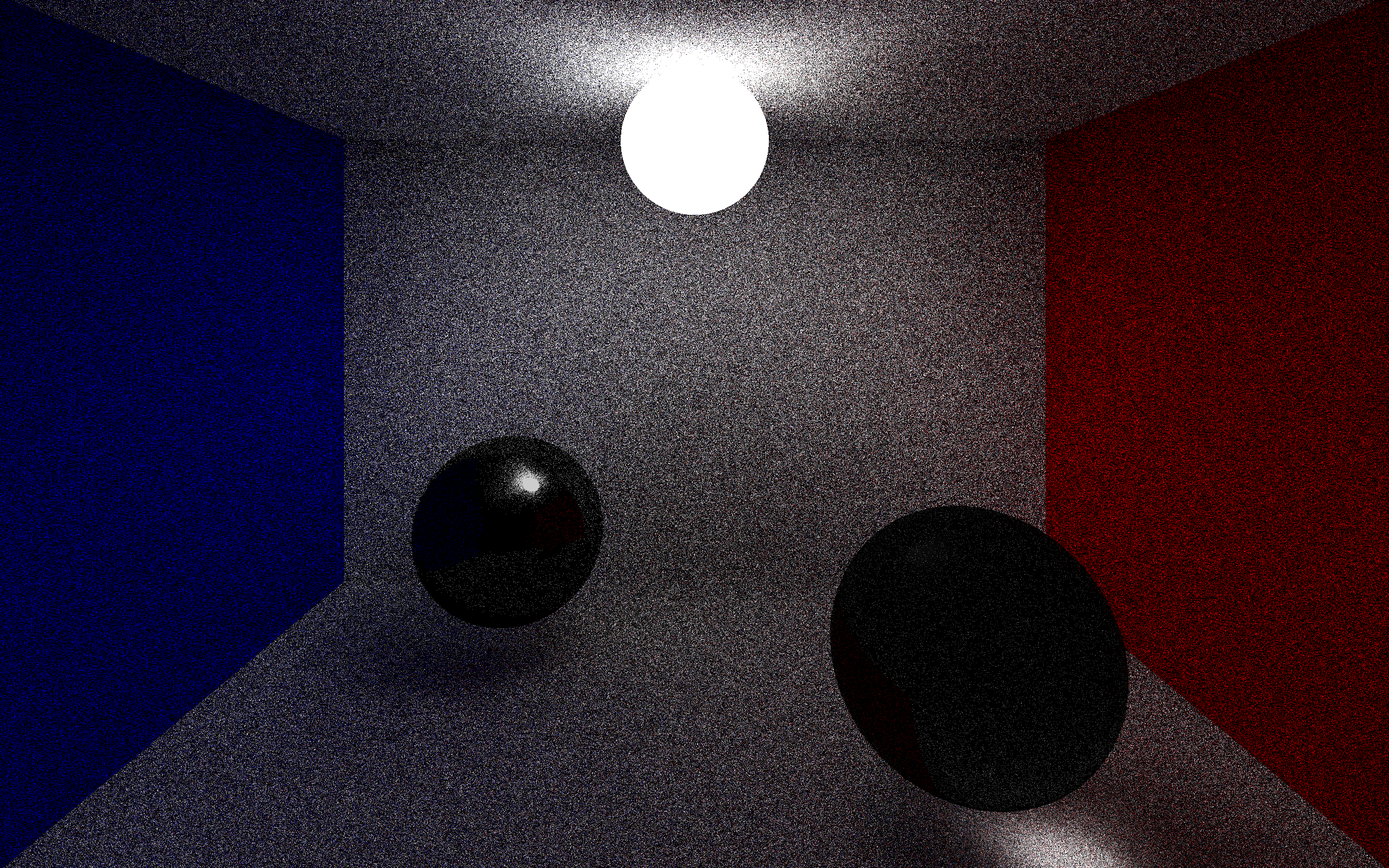
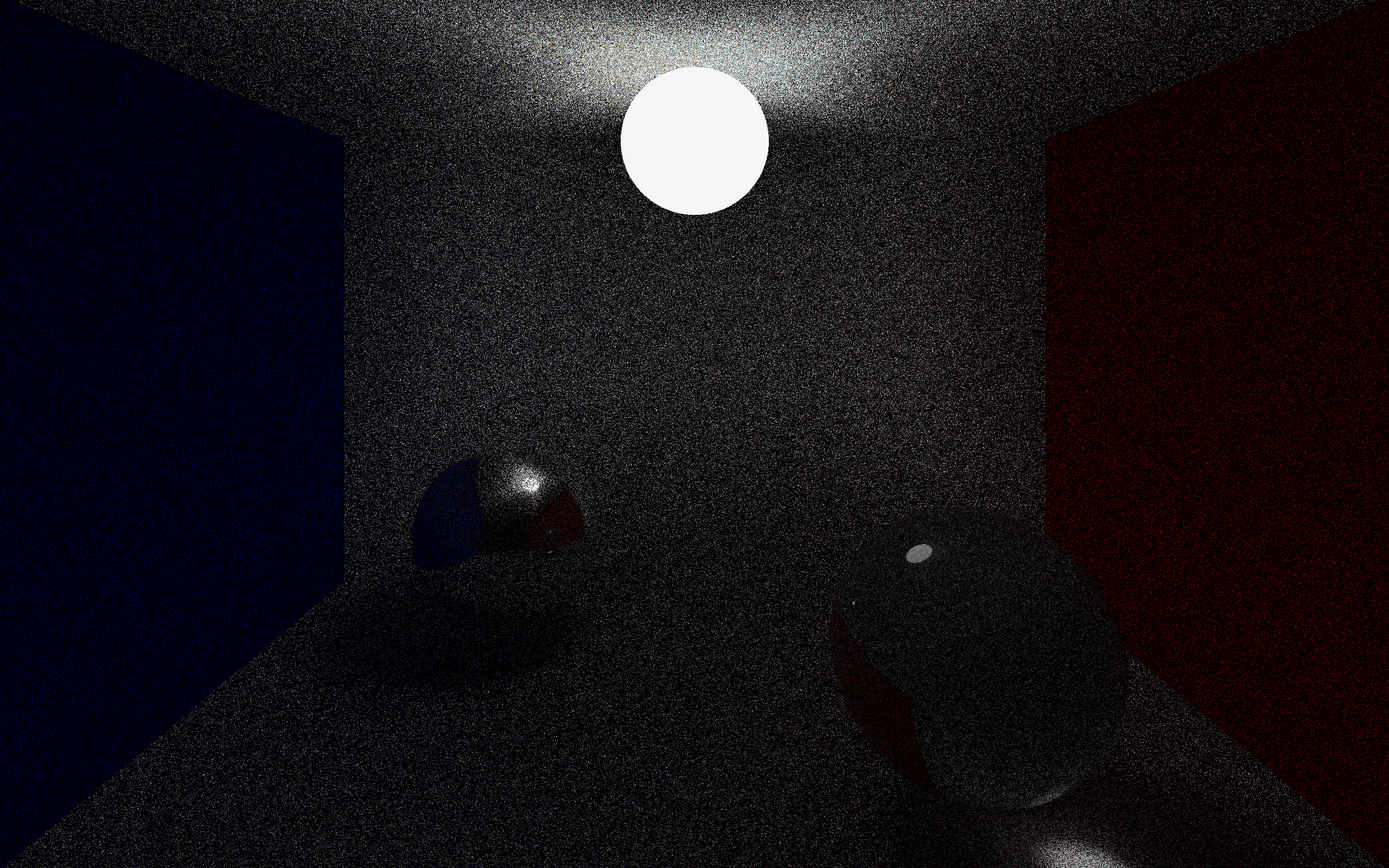
Improved algorithm speed

diff --git a/Scene.cpp b/Scene.cpp
@@ -159,7 +159,7 @@ Point Scene::traceRay(const Ray& ray, const double IoR, int recDepth) const {
 
 #else
     localColor = Point();
-
+/*
     if(intersection->getMaterial().getMaterialType() == DIFFUSE) {
         for (int i = 0; i < RAY_SAMPLES; ++i) {
                     double x = ((double) rand() / (RAND_MAX))-0.5;
@@ -173,18 +173,24 @@ Point Scene::traceRay(const Ray& ray, const double IoR, int recDepth) const {
                     }
                     if (dot > 0.2) {
                         Ray randRay = Ray(intersectionPoint, randDir);
-                        int minDepth; 
-                        if(recDepth == RECURSION_DEPTH){
-                          minDepth = recDepth - 1;
-                        }else{
-                          minDepth = recDepth < 2? recDepth - 1: 1;
-                        }
-                        localColor += intersection->getMaterial().getDiffuse() * traceRay(randRay, IoR, minDepth);
+                        localColor += intersection->getMaterial().getDiffuse() * traceRay(randRay, IoR, recDepth-1);
+                    }
+                    if(recDepth == RECURSION_DEPTH){
+                      break;
                     }
         }
     }
-
-
+    */
+    
+                    double x = ((double) rand() / (RAND_MAX))-0.5;
+                    double y = ((double) rand() / (RAND_MAX))-0.5;
+                    double z = ((double) rand() / (RAND_MAX))-0.5;
+                    Direction randDir = Direction(x,y,z).normalize();
+                    if(randDir.dot(normal) < 0){
+                      randDir = randDir * -1.0;
+                    }
+                    Ray randRay = Ray(intersectionPoint, randDir);
+                    localColor += intersection->getMaterial().getDiffuse() * traceRay(randRay, IoR, recDepth-1);
 
 #endif
 
@@ -490,7 +496,6 @@ Scene genWeirdBoxScene(){
     Sphere *sphere_mirror = new Sphere(center_mirror, 1.5, black, rotation1);
     s.addSphere(sphere_mirror);
 
-
     Plane *bottom = new Plane(Direction(0.0, 1.0, 0.0).normalize(), 5, blackPlane, 10, 7);
     //p->rotate(345);
     s.addPlane(bottom);
@@ -506,7 +511,6 @@ Scene genWeirdBoxScene(){
     Plane *left = new Plane(Direction(1.0, 0.0, 0.0).normalize(), 7, blackPlane, 10, 5);
     //p->rotate(345);
     s.addPlane(left);
-
     Plane *back = new Plane(Direction(0.0, 0.0, 1.0).normalize(), 10, blackPlane, 5, 7);
     //p->rotate(345);
     s.addPlane(back);
@@ -675,7 +679,53 @@ Scene genPlaneScene(){
     Sphere *sphere_blue = new Sphere(center_blue, 1, blue, rotation1);
     s.addSphere(sphere_blue);
 
-    Plane *back = new Plane(Direction(0.0, 0.0, 1.0).normalize(), 6, whitePlane, 7, 10);
+    Plane *back = new Plane(Direction(0.0, 0.0, 1.0).normalize(), 6, whitePlane, 8, 10);
+    //p->rotate(345);
+    s.addPlane(back);
+
+    //Plane *top = new Plane(Direction(0.0, -1.0, 0.0).normalize(), 4, whitePlane, 10, 7);
+    //p->rotate(345);
+    //s.addPlane(top);
+
+
+    return s;
+}
+
+Scene genSimpleDiffuseScene(){
+    Scene s = Scene();
+
+    Material black = Material(Point(0.1, 0.1, 0.1), Point(0.3, 0.3, 0.3), Point(1, 1, 1), Point(0, 0, 0), 8, 0.5);
+    Material glass = Material(Point(0.3, 0.3, 0.3), Point(0.5, 0.5, 0.5), Point(1, 1, 1), Point(0, 0, 0), 8, 0.2, 1.52);
+    Material mirror = Material(Point(0.3, 0.3, 0.3), Point(0.5, 0.5, 0.5), Point(1, 1, 1), Point(0, 0, 0), 8, 0.2);
+    Material white = Material(Point(1, 1, 1), Point(1, 1, 1), Point(1, 1, 1), Point(1, 1, 1), 8, 1);
+    Material magenta = Material(Point(1, 0, 1), Point(1, 0, 1), Point(1, 0, 1), Point(1, 0, 1), 8, 1);
+    Material redWall = Material(Point(0.2, 0,0), Point(0.5,0,0), Point(1,1,1), Point(),8, 1);
+    Material blueWall = Material(Point(0, 0,0.2), Point(0,0,0.5), Point(1,1,1), Point(),8, 1);
+    Material whitePlane = Material(Point(0.3, 0.3, 0.3), Point(0.5, 0.5, 0.5), Point(1, 1, 1), Point(0, 0, 0), 8, 1);
+    Material blackPlane = Material(Point(0, 0, 0), Point(0.2, 0.2, 0.2), Point(.4, .4, .4), Point(0, 0, 0), 8, 1);
+    Material green = Material(Point(0, 1, 0), Point(0, 1, 0), Point(1, 1, 1), Point(0, 1, 0), 8, 1);
+    Material red = Material(Point(1, 0, 0), Point(1, 0, 0), Point(1, 1, 1), Point(1, 0, 0), 8, 1);
+    Material blue = Material(Point(0, 0, 1), Point(0, 0, 1), Point(1, 1, 1), Point(0, 0, 0), 8, 1);
+
+    Point rotation1 = Point(std::rand() % 360, std::rand() % 360, std::rand() % 360);
+    Point rotation2 = Point(std::rand() % 360, std::rand() % 360, std::rand() % 360);
+
+    Point center_glass = Point(0, 1, -5.2);
+    Point center_blue = Point(3, -3, -5.2);
+    Point center_green = Point(-3, -3, -5.2);
+
+
+
+    Sphere *sphere_glass = new Sphere(center_green, 1, glass, rotation2);
+    s.addSphere(sphere_glass);
+
+    Sphere *sphere_green = new Sphere(center_glass, 1, white, rotation1);
+    s.addSphere(sphere_green);
+
+    Sphere *sphere_blue = new Sphere(center_blue, 1, blue, rotation1);
+    s.addSphere(sphere_blue);
+
+    Plane *back = new Plane(Direction(0.0, 1.0, 0.0), 5, whitePlane, 8, 10);
     //p->rotate(345);
     s.addPlane(back);
 

diff --git a/YART.cpp b/YART.cpp
@@ -45,42 +45,48 @@ void YART::render(Screen& screen){
             Point color;
             if(numSamples == 1){
                 Ray r = computeRay(x,y,*rs);
-                color = traceRay(r);
+                for(int i = 0; i < RAY_SAMPLES; ++i){
+                    color = color + traceRay(r);
+                }
+                //color = color / RAY_SAMPLES;
+                //color = traceRay(r);
             }else{
                 color = Point();
                 for(int sY = 0; sY < numSamplesY; ++sY){
-                    for(int sX = 0; sX < numSamplesX; ++sX){
-                        Ray r = computeRay(x + sX/((double)numSamplesX), y + sY/((double)numSamplesY),*rs);
-                        color = color + traceRay(r);
+                  for(int sX = 0; sX < numSamplesX; ++sX){
+                    Ray r = computeRay(x + sX/((double)numSamplesX), y + sY/((double)numSamplesY),*rs);
+                    for(int i = 0; i < RAY_SAMPLES; ++i){
+                      color = color + traceRay(r);
                     }
-                }
+                    color = color / RAY_SAMPLES;
+                  }}
                 color = color / numSamples;
             }
             screen.setPixel(x, y, color);
             if(x % 128 == 0) {
-                double _x = x;
-                double _y = y;
-                double progress = (_y) / double(screen.getHeight());
-                c2 = clock();
-                float diff((float) c2 - (float) c1);
-                float seconds = diff / CLOCKS_PER_SEC;
-                int eta = seconds * (1/progress) - seconds ;
-                int eta_s = eta % 60;
-                int eta_m = (eta / 60) % 60;
-                int eta_h = (eta / 3600);
+              double _x = x;
+              double _y = y;
+              double progress = (_y) / double(screen.getHeight());
+              c2 = clock();
+              float diff((float) c2 - (float) c1);
+              float seconds = diff / CLOCKS_PER_SEC;
+              int eta = seconds * (1/progress) - seconds ;
+              int eta_s = eta % 60;
+              int eta_m = (eta / 60) % 60;
+              int eta_h = (eta / 3600);
 
-                int eta_total = seconds * (1/progress);
-                int eta_total_s = eta_total % 60;
-                int eta_total_m = (eta_total/60) % 60;
-                int eta_total_h = (eta_total/3600);
+              int eta_total = seconds * (1/progress);
+              int eta_total_s = eta_total % 60;
+              int eta_total_m = (eta_total/60) % 60;
+              int eta_total_h = (eta_total/3600);
 
-                std::cout << "Y:" << y << " Progress " << int(progress * 100.0) << "% ETA "
-                          << std::setfill('0') << std::setw(2) << eta_h << ":" << std::setfill('0') << std::setw(2)
-                          << eta_m << ":" << std::setfill('0') << std::setw(2) << eta_s
-                          << " TOTAL " << std::setfill('0') << std::setw(2) << eta_total_h << ":"
-                          << std::setfill('0') << std::setw(2) << eta_total_m << ":"<< std::setfill('0') << std::setw(2)
-                            << eta_total_s << " \r";
-                std::cout.flush();
+              std::cout << "Y:" << y << " Progress " << int(progress * 100.0) << "% ETA "
+                << std::setfill('0') << std::setw(2) << eta_h << ":" << std::setfill('0') << std::setw(2)
+                << eta_m << ":" << std::setfill('0') << std::setw(2) << eta_s
+                << " TOTAL " << std::setfill('0') << std::setw(2) << eta_total_h << ":"
+                << std::setfill('0') << std::setw(2) << eta_total_m << ":"<< std::setfill('0') << std::setw(2)
+                << eta_total_s << " \r";
+              std::cout.flush();
             }
         }
     }
@@ -88,10 +94,10 @@ void YART::render(Screen& screen){
 
 
 Point YART::traceRay(const Ray& r){
-    return scene.traceRay(r,1.0,recDepth);
+  return scene.traceRay(r,1.0,recDepth);
 }
 
 Ray YART::computeRay(double x, double y, const RaySetup& rs){
-    Direction direction = ((rs.topLeft + rs.dX*x + rs.dY * y) - Point()).normalize();
-    return Ray(rs.rayOrigin, direction);
+  Direction direction = ((rs.topLeft + rs.dX*x + rs.dY * y) - Point()).normalize();
+  return Ray(rs.rayOrigin, direction);
 }

diff --git a/main.cpp b/main.cpp
@@ -20,13 +20,14 @@ int main(){
 
     renderer.setCamera(camera);
   //  Scene s = genScene();
-    //Scene s = genOtherScene();
-    //Scene s = genSimpleScene();
+//    Scene s = genOtherScene();
+  //  Scene s = genSimpleScene();
 //    Scene s = genBoxScene();
 //    Scene s = genWeirdBoxScene();
       Scene s = genSmallptScene();
-  //  Scene s = genPlaneScene();
-   // Scene s = genStevenScene();
+//    Scene s = genPlaneScene();
+//    Scene s = genStevenScene();
+  //  Scene s = genSimpleDiffuseScene();
 
     renderer.setScene(s);
     renderer.render(screen);

diff --git a/config.hpp b/config.hpp
@@ -7,7 +7,7 @@
 
 #define RECURSION_DEPTH 5
 #define PIXEL_SAMPLES 1
-#define RAY_SAMPLES 10000
+#define RAY_SAMPLES 10
 //#define IGNORE_EVERYTHING_BUT_EMISSION
 #define IMAGE_WIDTH 2560
 #define IMAGE_HEIGHT 1600

diff --git a/Scene.hpp b/Scene.hpp
@@ -43,5 +43,7 @@ Scene genWeirdBoxScene();
 Scene genSmallptScene();
 Scene genPlaneScene();
 Scene genStevenScene();
+Scene getThreeBallScene();
+Scene genSimpleDiffuseScene();
 
 #endif //PATHTRACER_SCENE_HPP
